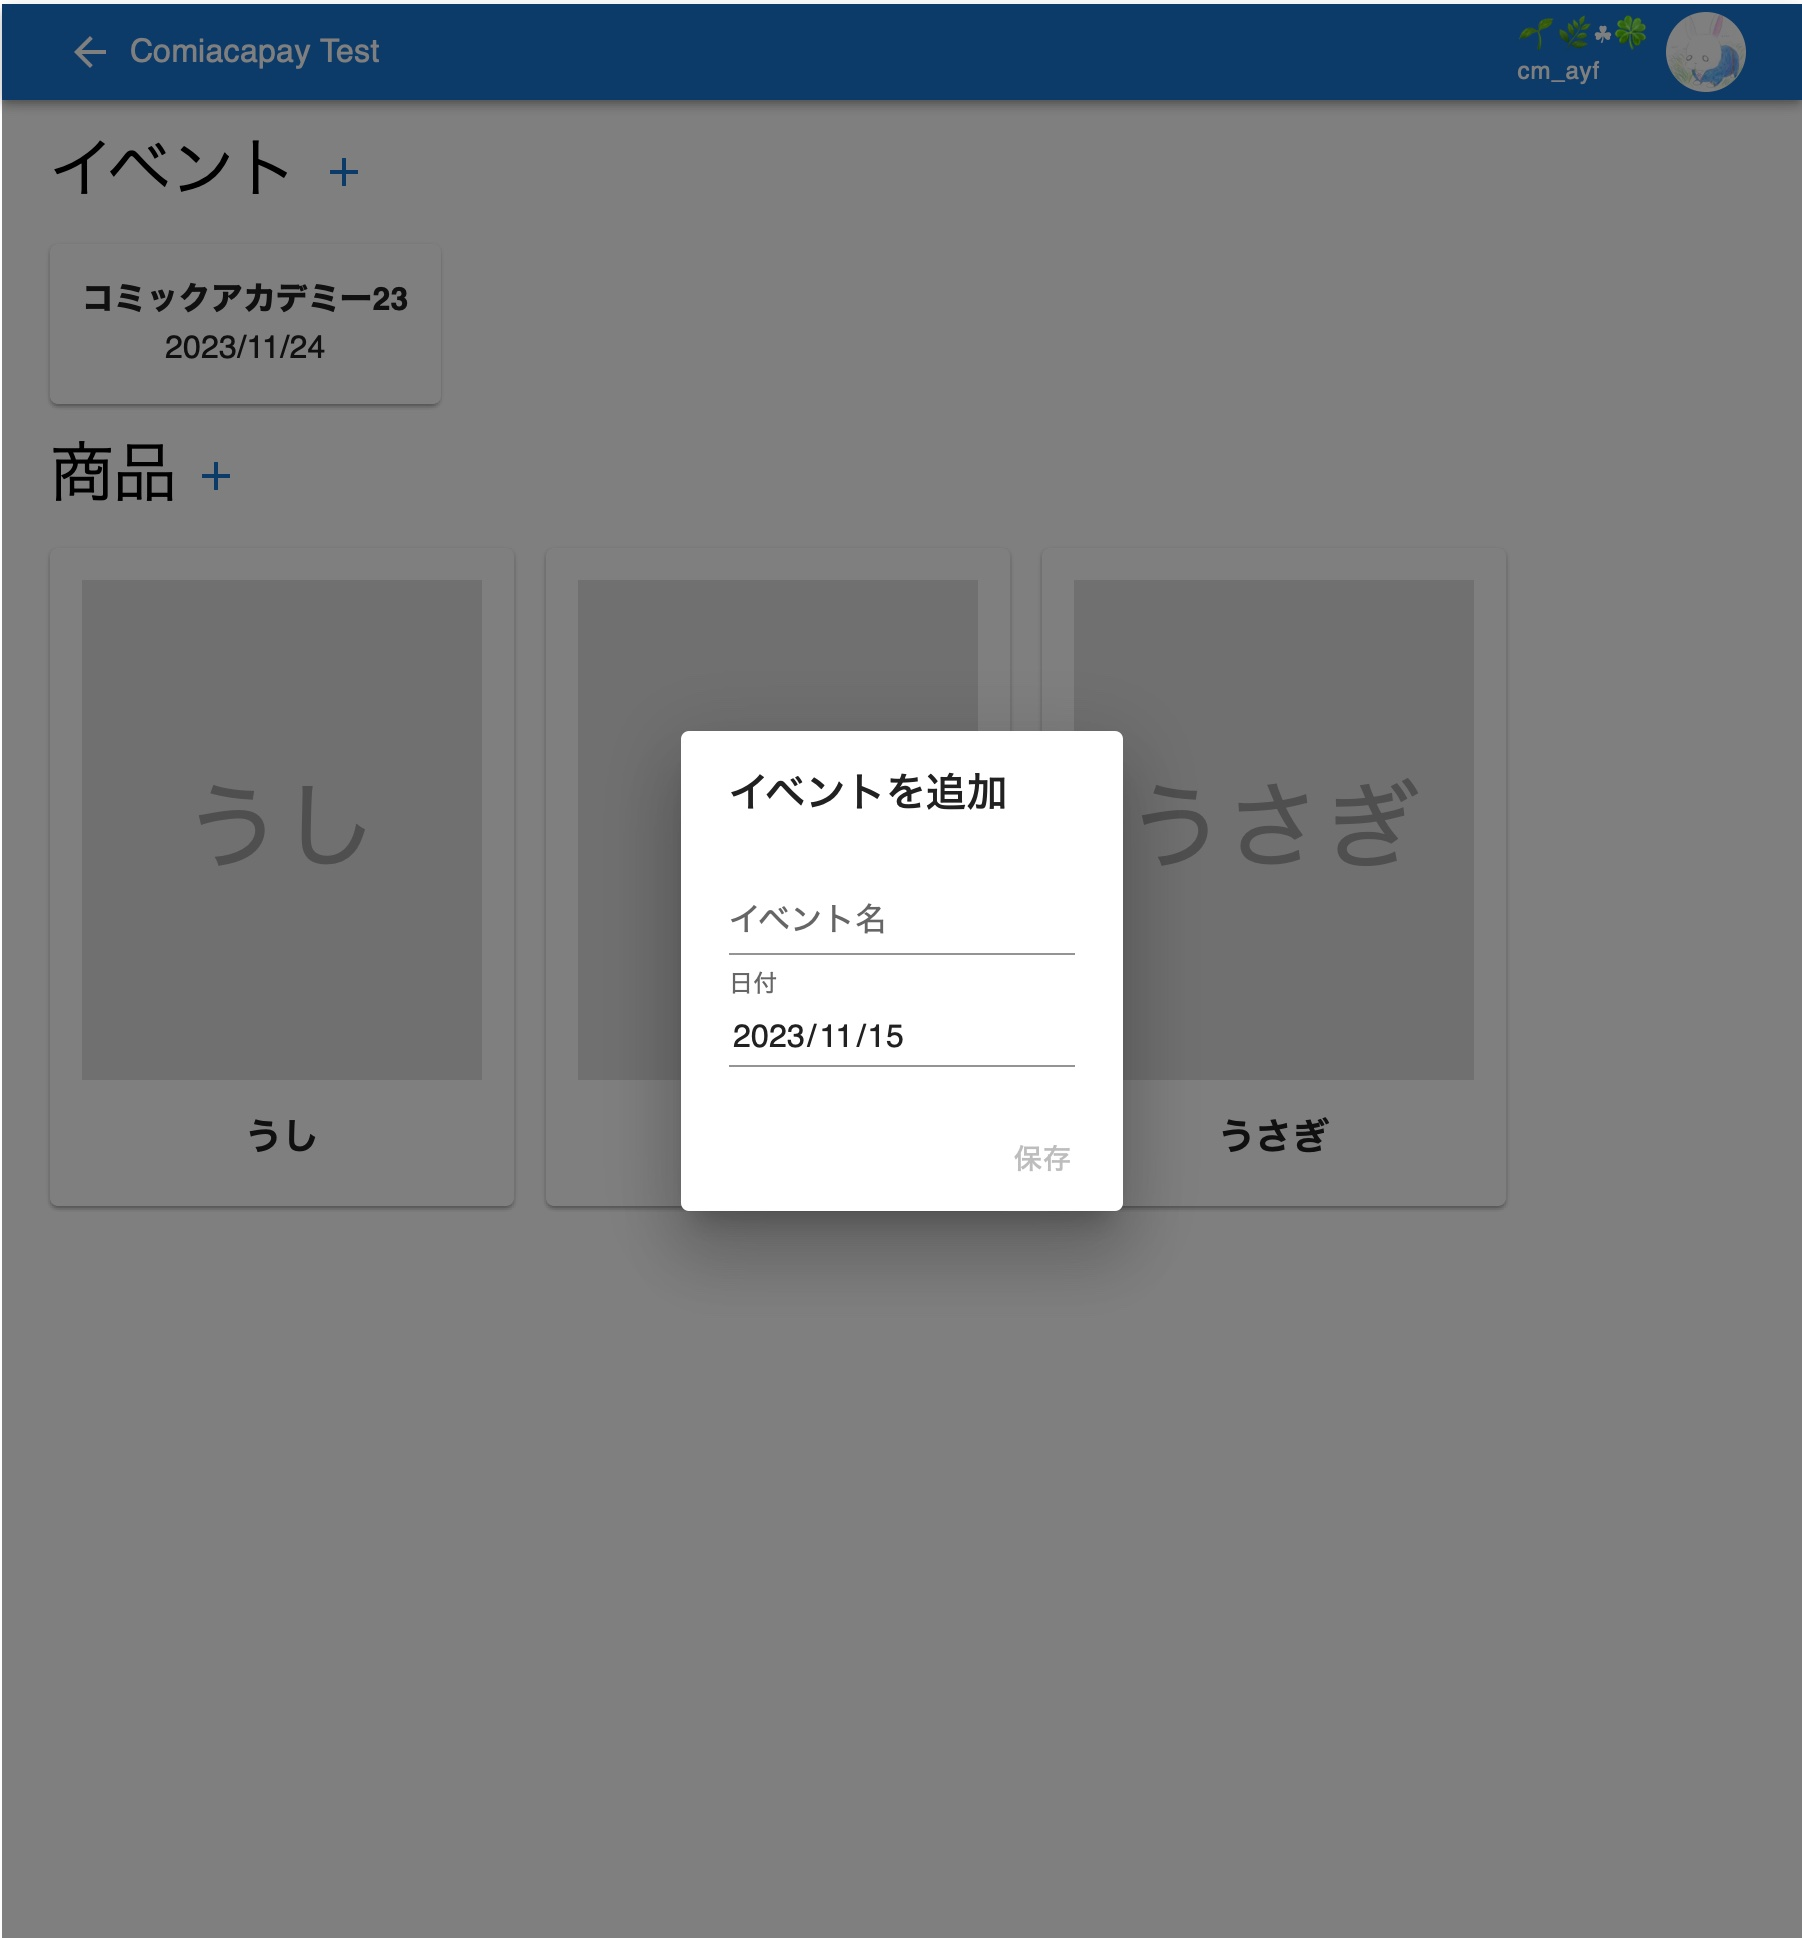
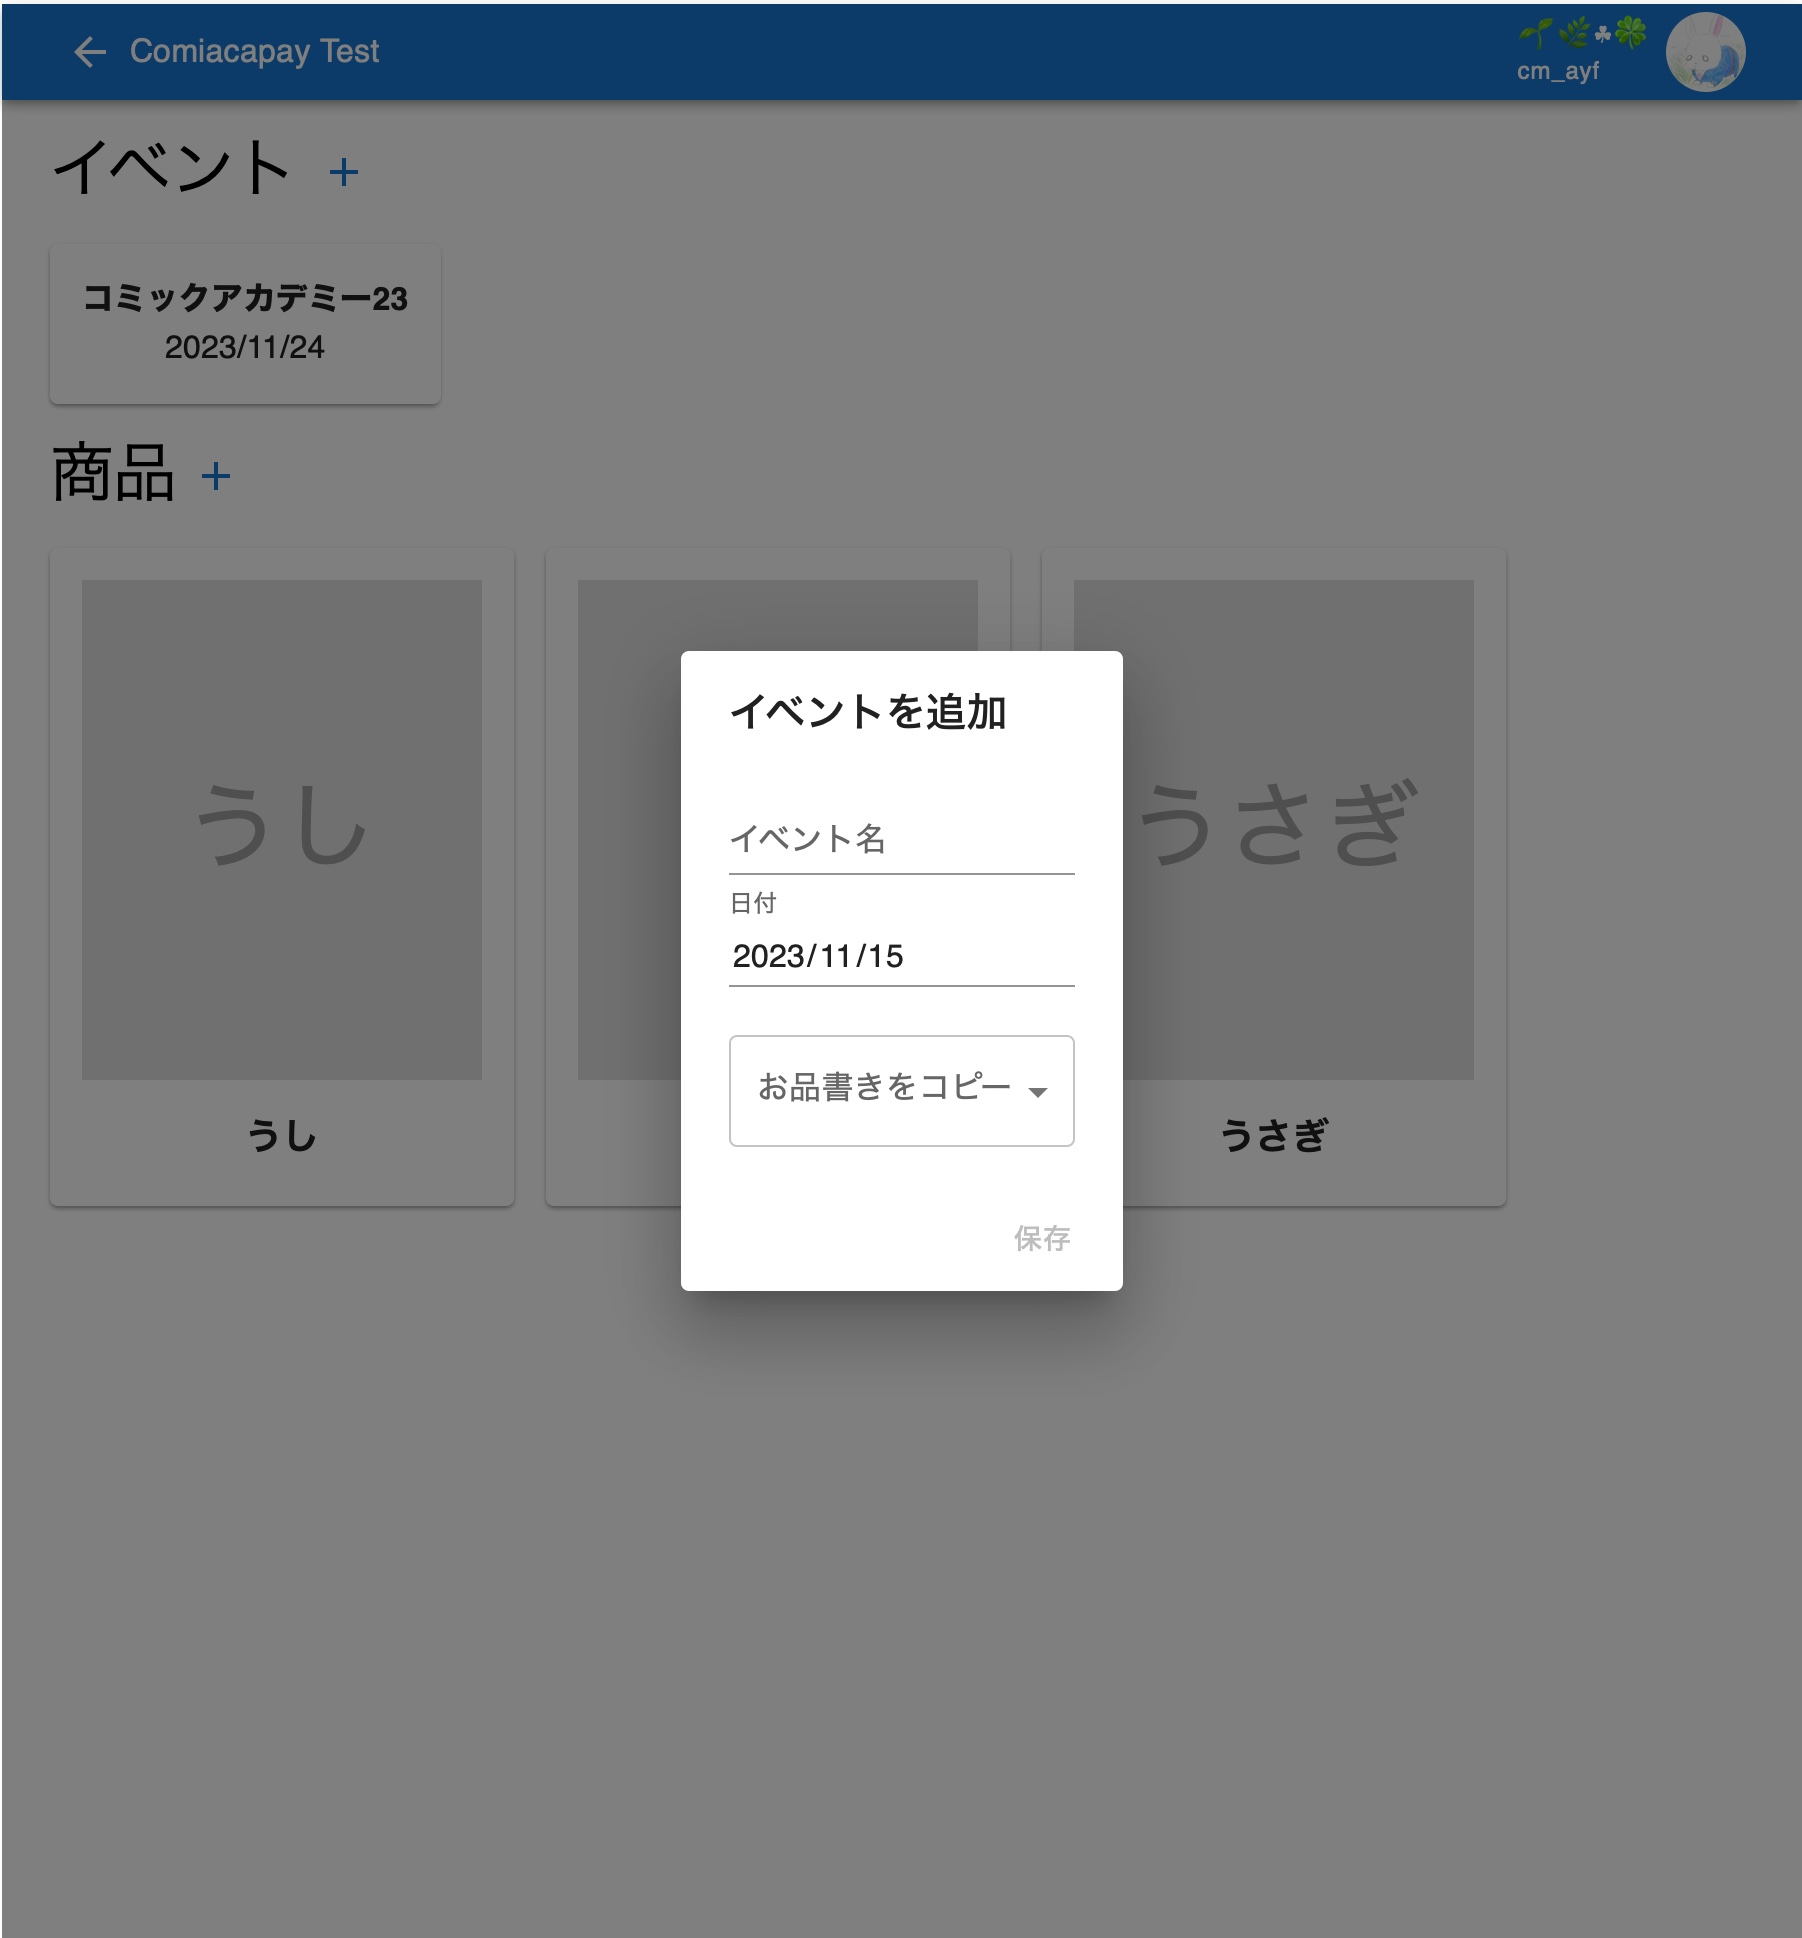
change docs along with CreateEvent clone

Changed region(s): [[0.3729, 0.3096, 0.6215, 0.5882], [0.3729, 0.5882, 0.6215, 0.6811]]

diff --git a/docs/events.md b/docs/events.md
@@ -30,6 +30,7 @@
 
 1.  「イベント」の右の「+」ボタンを押します．
 1.  必要な項目を埋めて，「保存」を押します．
+    - 「お品書きをコピー」ですでにあるイベントを選択すると，作成時にそのイベントと同じお品書きが設定されます．
     ![](create-event.jpg)
 1.  成功したら，左上にサーバー名とイベント名が表示された画面に遷移します．
 
@@ -72,3 +73,10 @@
 ## 割引等の削除
 
 1.  割引等の列の右端にある「削除」ボタンを押します．
+
+## イベントの削除
+
+1.  イベント名と日付が書かれたカードを押します．
+1.  「削除」ボタンを押します．
+
+- すでにお品書きや売上が登録されているイベントは削除できません．
